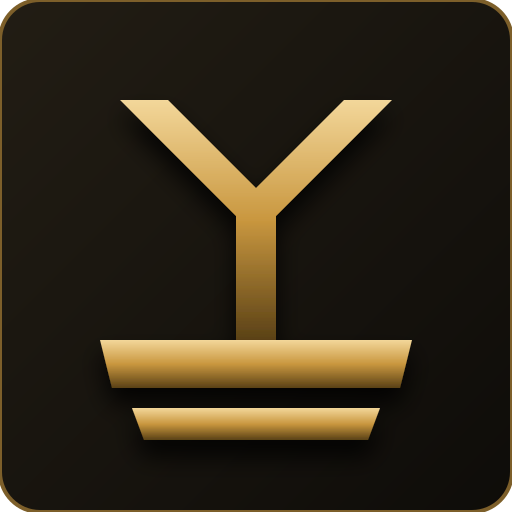
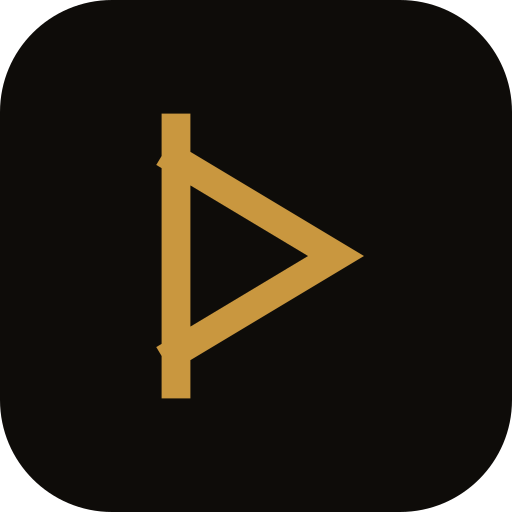
desktop: Bilskirnir and Rödd wear their own runes, minted like every app (plan 275)
Bilskirnir wore the whole Ymir mark and Rödd a black copy of Óðrerir's glyph; neither was in the minter's
table. Bilskirnir now wears ᚦ Thurisaz and Rödd ᛚ Laguz (newly drawn), both minted and rasterised by
design-icon.sh, Bilskirnir's own theme set included. The minter installs icons only and hands the launchers
to shortcuts.sh, the one writer, so an install no longer leaves Exec=ymir <app> over Exec=ymir-app <app>.

Changed region(s): [[0.1875, 0.1875, 0.8125, 0.875], [0.0, 0.0, 1.0, 1.0]]

diff --git a/apps/rodd/src/main.js b/apps/rodd/src/main.js
@@ -230,8 +230,8 @@ app.whenReady().then(async () => {
     backgroundColor: '#0e0c09',
     autoHideMenuBar: true,
     webPreferences: { contextIsolation: true, sandbox: true },
-    // the rune of the voice (Ansuz): the window wears the house icon, not Electron's default
-    icon: require('path').join(__dirname, '..', '..', 'midgard', 'design-system', 'icons', 'ansuz.svg'),
+    // the rune of the voice (ᛚ Laguz, plan 275): the window wears its own minted icon, as every app's does
+    icon: require('path').join(__dirname, '..', 'electron', 'icon.png'),
   });
   win.setTitle('Rödd');
   // The engine's UI defaults to a Qwen3-TTS voice ("Aiden"); the house mouth is Kokoro.

diff --git a/midgard/design-system/runes.md b/midgard/design-system/runes.md
@@ -36,7 +36,7 @@ runes[24]{glyph,name,sound,meaning,ymir_use,file}:
   "ᛒ","Berkanan","b","birch","Profile — the self; Ratatoskr — the messenger","berkana"
   "ᛖ","Ehwaz","e","horse","Runtime — the seat and its transit; Hlidskjalf","ehwaz"
   "ᛗ","Mannaz","m","man, self","(no glyph yet)","—"
-  "ᛚ","Laguz","l","water, flow","(no glyph yet)","—"
+  "ᛚ","Laguz","l","water, flow","Rödd — the voice that flows","laguz"
   "ᛜ","Ingwaz","ng","Ing, the seed","Mimirsbrunn — the well of wisdom","ingwaz"
   "ᛞ","Dagaz","d","day, dawn","Valhalla — process health","dagaz"
   "ᛟ","Othala","o","inheritance, estate","(no glyph yet)","—"
@@ -56,12 +56,14 @@ squirrel, a gate, a world-tree) while `icons.md` claimed a rune for each. Correc
 Five UI surfaces, five different glyphs — no app borrows another's rune:
 
 ```
-app_runes[5]{app,glyph,rune,house_tint}:
+app_runes[7]{app,glyph,rune,house_tint}:
   "Hlidskjalf","ᛖ","ehwaz — the seat","#c9973f bronze (ymirlabs)"
   "Hlidskjalf Mobile","ᚱ","raidho — the road, the seat carried","#c9973f bronze"
   "Óðrerir","ᚨ","ansuz — the Allfather's breath, the mead of poetry","#c9973f bronze (ymirlabs)"
   "Sessrúmnir","ᛟ","othala — inheritance, the hall that holds what is kept","#c9973f bronze (ymirlabs)"
   "Smíðja (visualizer)","ᚲ","kaunan — the torch, the forge's eye","#f59e0b amber (brokkforge)"
+  "Bilskirnir","ᚦ","thurisaz — Thor's rune, for Thor's hall of many rooms (glyph file: gungnir)","#c9973f bronze (ymirlabs)"
+  "Rödd","ᛚ","laguz — water, flow: the voice that flows","#c9973f bronze (ymirlabs)"
 ```
 
 Minted and installed by `bin/desktop/design-icon.sh` (`list` · `mint --all` · `install`):
@@ -80,3 +82,4 @@ dir, so every app is dockable and carries the house mark.
 ## CHANGE LOG
 
 - **2026-11-12** — this document gained a CHANGE LOG section so it carries its history (RULES/06). Its earlier history is its git log; entries are appended below, never rewritten.
+- **2026-11-13** — Bilskirnir and Rödd join the app runes (plan 275), at the Allfather's word that their launcher icons were "not made in the same way as the others". Bilskirnir wears ᚦ Thurisaz, Thor's rune, for Thor's hall (no other app wears it; the Gungnir subsystem shares the glyph); Rödd wears ᛚ Laguz, newly drawn in `icons/laguz.svg`. Rödd had worn a black copy of Óðrerir's glyph and Bilskirnir the whole Ymir mark.

diff --git a/docs/fixes/desktop/2026-11-13-every-app-wears-its-own-rune.md b/docs/fixes/desktop/2026-11-13-every-app-wears-its-own-rune.md
@@ -1,0 +1,34 @@
+# Every app wears its own rune, minted the same way — Bilskirnir and Rödd join
+
+**Status:** built and installed on heimdall, 2026-11-13 (plan 275), at the Allfather's word: *"bilskirnir's and
+rödd's logos are not made in the same way as the others."*
+
+## What was wrong
+
+Four apps wore the house style, a single bronze rune on a dark stone tile, minted by `bin/desktop/design-icon.sh`
+from the rune shelf. Two did not:
+
+- **Bilskirnir** wore the whole Ymir mark, from its own hand-made icon set, which `apps/bilskirnir/setup.sh` copied
+  into the icon theme on every setup.
+- **Rödd** wore a black copy of Óðrerir's glyph with no tile, labelled "Ansuz — Forge".
+
+Neither app was in the minter's table. Behind it was a second fault: the minter's `install` wrote its own launcher
+entries (`Exec=ymir <app>`) over the ones `bin/desktop/shortcuts.sh` writes (`Exec=ymir-app <app>`), so the
+launcher an install left behind depended on which of the two ran last.
+
+## What changed
+
+| Part | Change |
+|---|---|
+| Runes | Bilskirnir wears ᚦ Thurisaz (Thor's rune, for Thor's hall); Rödd wears ᛚ Laguz (water, flow: the voice). Laguz is newly drawn in `midgard/design-system/icons/laguz.svg`; `runes.md` and `icons.md` name both |
+| Minting | Both apps are rows in the minter's table; `mint` writes their `public/icon.svg`, and `raster` cuts their window and launcher PNGs, and Bilskirnir's own theme set at every size |
+| Launchers | The minter installs icons only, then runs `shortcuts.sh`, the one launcher writer |
+| Rödd's window | Wears `apps/rodd/electron/icon.png`, its own minted icon |
+
+## How it was proven
+
+- The six minted icons rendered side by side match in style; the theme's scalable SVG and 256px PNG agree for every
+  app.
+- After `design-icon.sh install`, every launcher entry reads `Exec=…/ymir-app <app>` and `Icon=ymir-<app>`.
+- The raster also re-cut Hlidskjalf's Android splash screens; those were restored unchanged, as this change does not
+  concern them.

diff --git a/midgard/design-system/icons.md b/midgard/design-system/icons.md
@@ -10,7 +10,7 @@ The glyphs live in `midgard/design-system/icons/*.svg` (24×24 viewBox; render a
 bevel. The primary seat may add a 1px inner bevel via the `--ymir-bevel` token.
 
 ```
-icons[21]{glyph,name,unicode,figure,used_for}:
+icons[22]{glyph,name,unicode,figure,used_for}:
   "fehu","Fehu","ᚠ","Ymir (cattle/wealth)","Fleet — the herd of agents"
   "tiwaz","Tiwaz","ᛏ","Týr (justice)","Tasks — the A2A lifecycle board"
   "ingwaz","Ingwaz","ᛜ","Ing (the well)","Well — Mimirsbrunn recall"
@@ -30,7 +30,8 @@ icons[21]{glyph,name,unicode,figure,used_for}:
   "ratatoskr","Ratatoskr","ᛒ","the squirrel","Ratatoskr — the A2A bus"
   "mimirsbrunn","Mimirsbrunn","ᛜ","the well of wisdom","Mimirsbrunn — memory"
   "valhalla","Wunjo","ᚹ","joy","Valhalla — process health (the glyph ᚹ is drawn here)"
-  "gungnir","Gungnir","ᚦ","the Allfather's spear","Gungnir — skill synthesis"
+  "gungnir","Gungnir","ᚦ","the Allfather's spear","Gungnir — skill synthesis; Bilskirnir's app rune (Thor's hall)"
+  "laguz","Laguz","ᛚ","water, flow","Rödd — the voice that flows (its app rune)"
   "heimdall","Heimdall","ᚺ","the watchman","Heimdall — auth / the gate"
   "gjallarhorn","Gjallarhorn","ᚷ","the horn","Gjallarhorn — the tunnel and its call"
 ```
